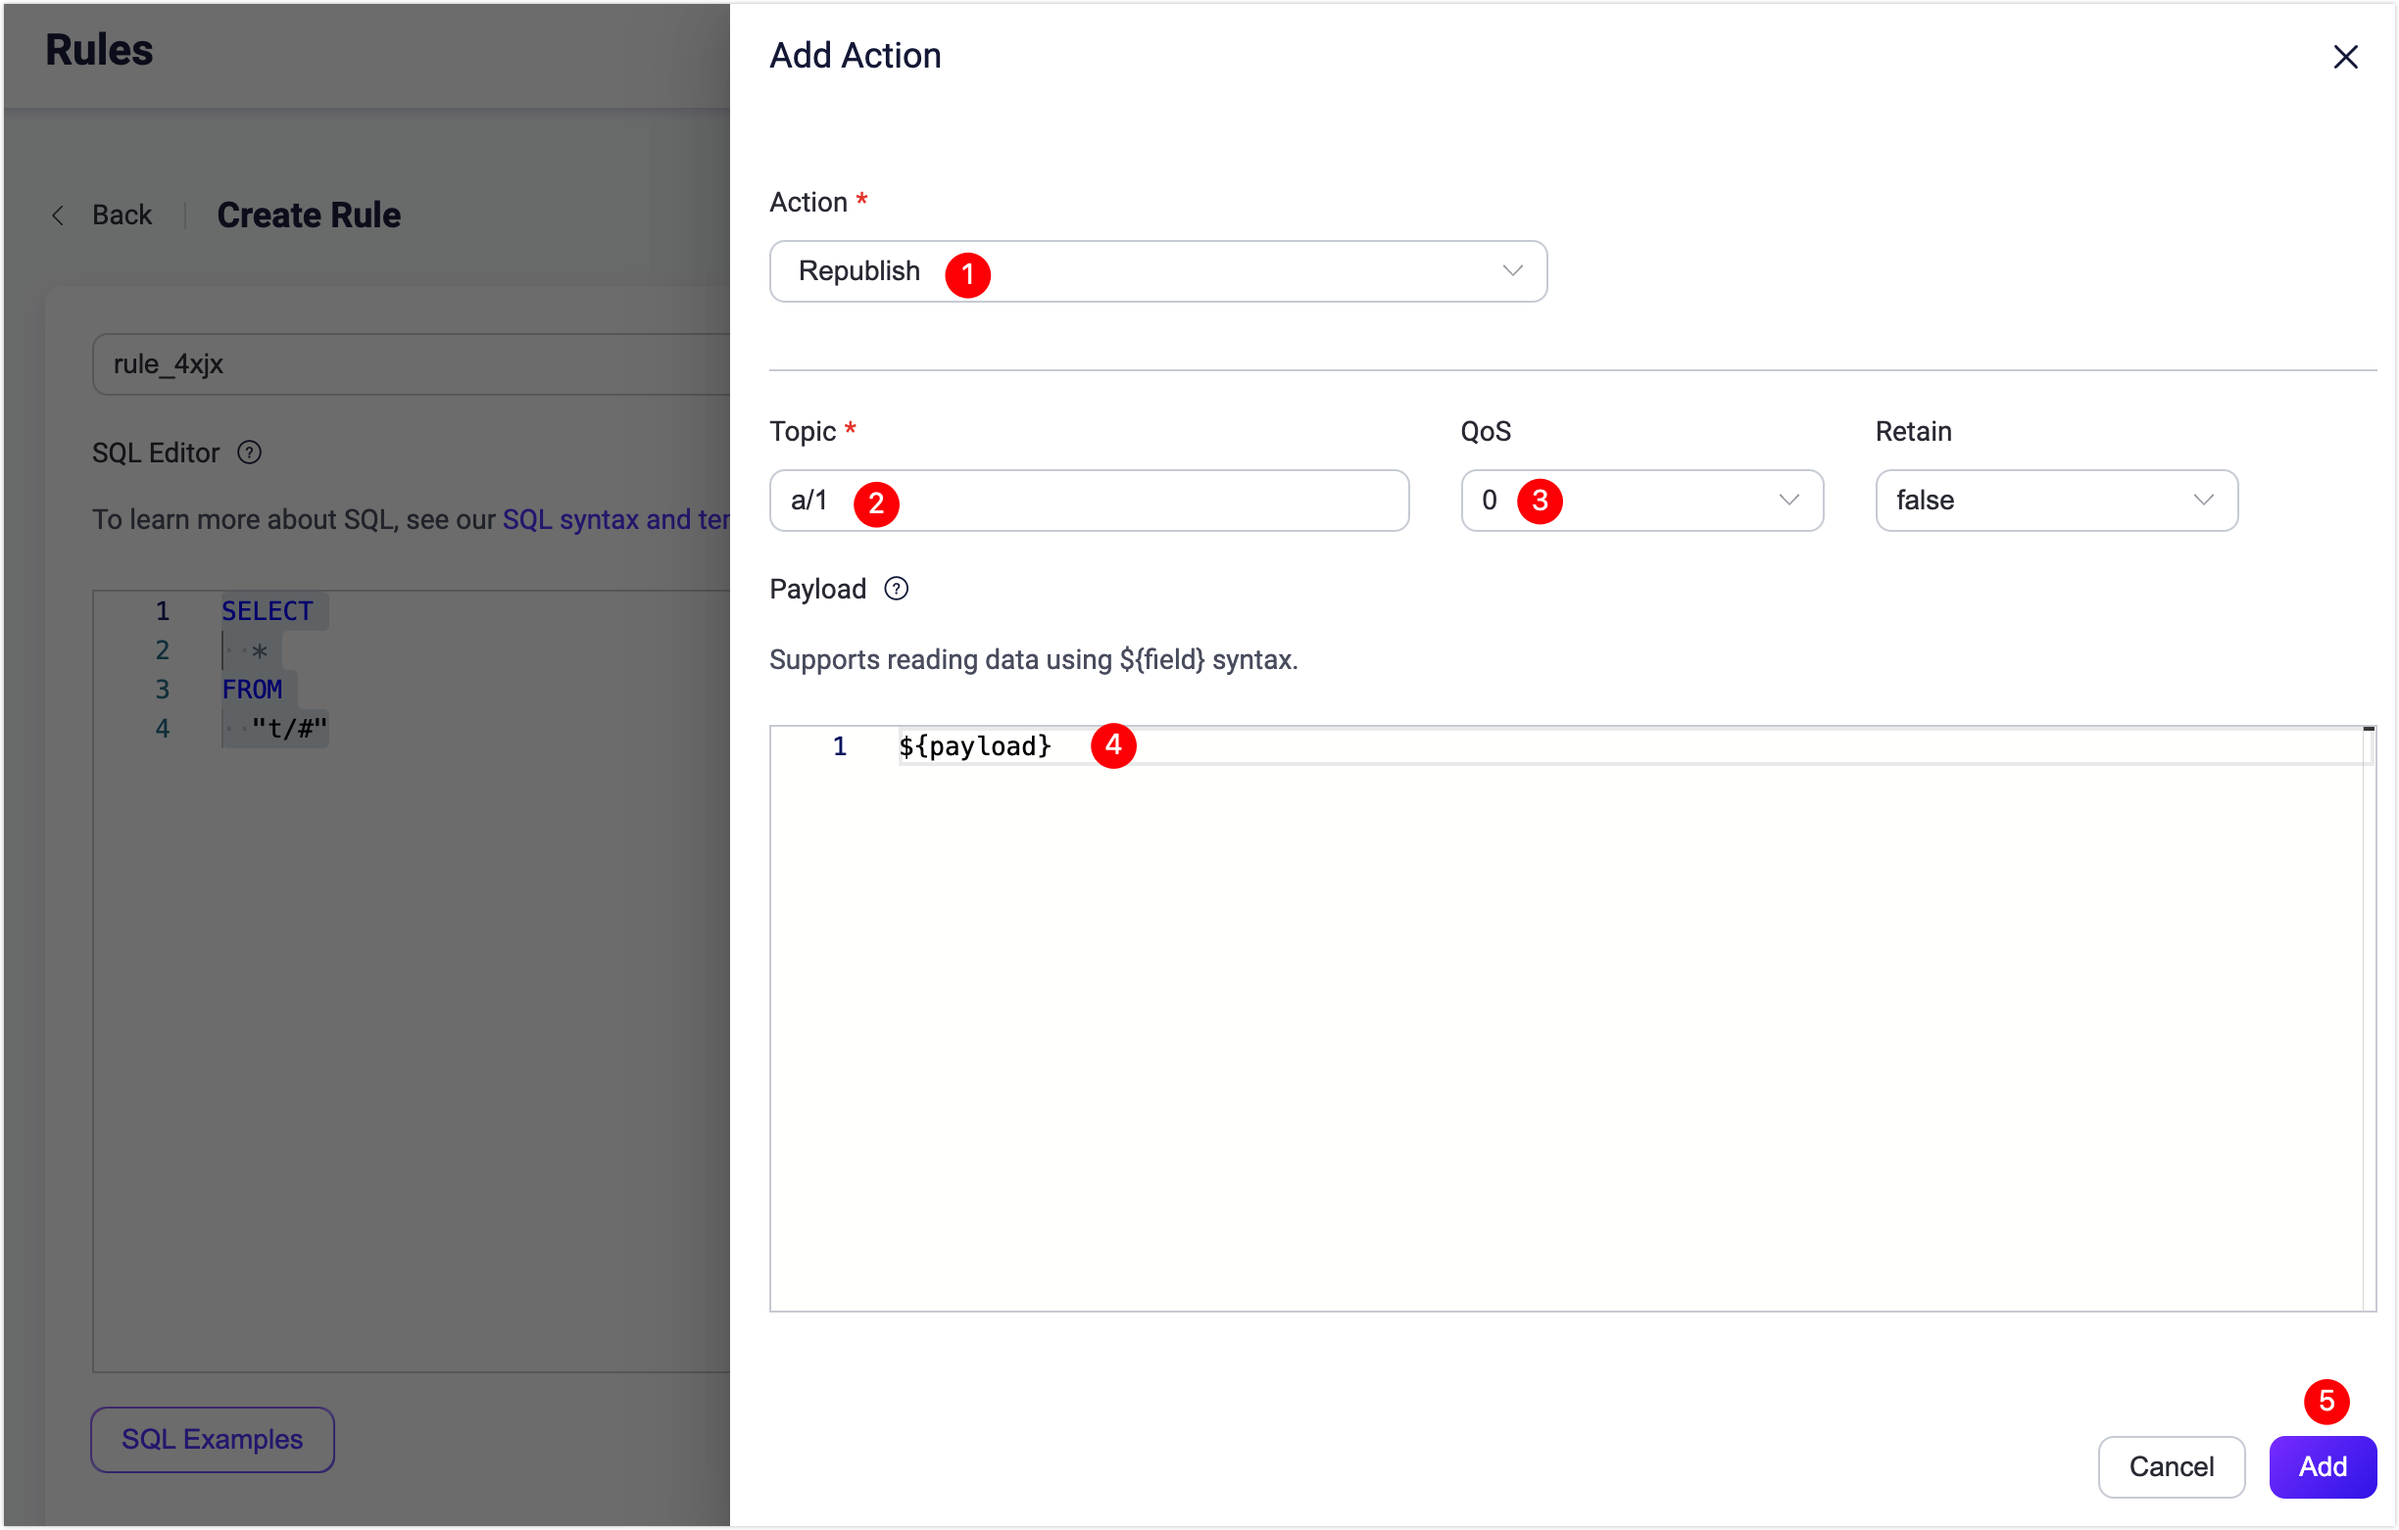
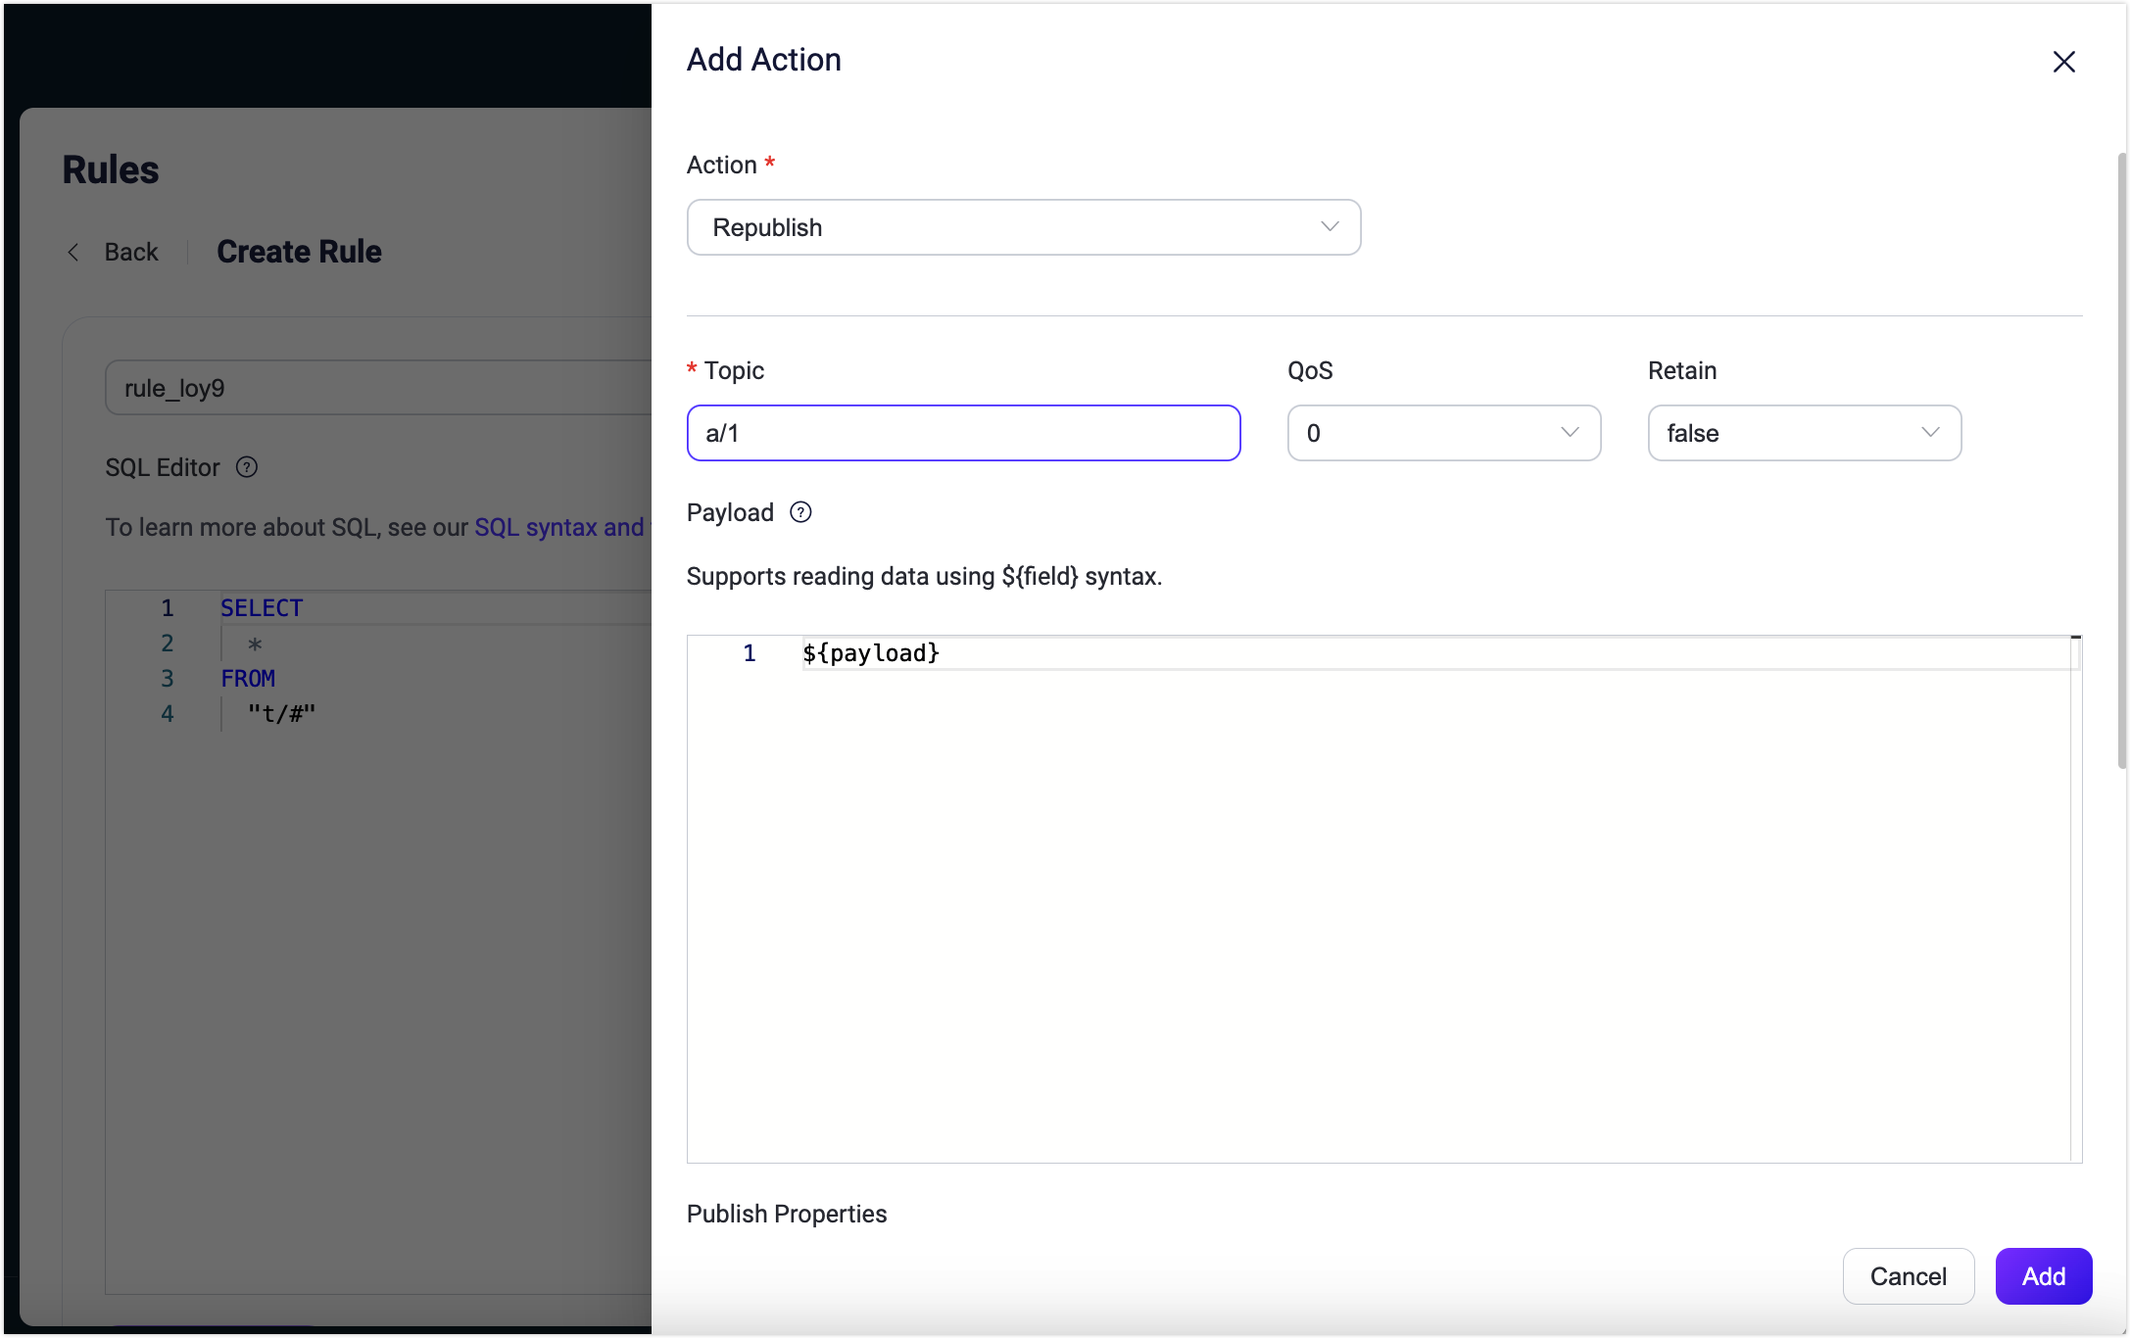
Add Publish Properties in Republish Action

diff --git a/en_US/data-integration/rule-get-started.md b/en_US/data-integration/rule-get-started.md
@@ -1,8 +1,8 @@
 # Create Rules
 
-This guide introduces how to create a rule using the EMQX Dashboard. Log in to the EMQX Dashboard and click **Integration** -> **Rules** in the left navigation menu. Then click the **Create** button, which directs you to the **Rules** page. Here, you can define the data source for your rule and determine the subsequent actions for the filtered messages, such as republishing, printing the result to the Console, or forwarding with data bridges.
+This page mainly introduces how to create a rule for data processing and attach an action to the rule using the EMQX Dashboard. Log in to the EMQX Dashboard and click **Integration** -> **Rules** in the left navigation menu. Then click the **Create** button, which directs you to the **Rules** page. Here, you can define the data source for your rule and determine the subsequent actions for the filtered messages.
 
-The following steps demonstrate how to create a rule that listens to messages with the topic `t/#` and forwards the received messages to the topic `a/1`.
+The demonstration on this page takes the republish action as an example, describing how to create a rule that processes messages received on the topic `t/#` and republishes the message to the topic `a/1`. However, the actions "printing the result to the Console" and "forwarding with data bridges" are also mentioned in [Add Action](#add-action).
 
 ## Define a Data Source
 On the **Rules** page, input a name for your rule and add a note to facilitate future management.
@@ -25,30 +25,63 @@ EMQX has embedded rich SQL statement samples to help you get started, you can cl
 
 This is an optional step, but it is recommended if you are new to EMQX rules. Turn on the **Enable Test** toggle switch to enable the SQL statement testing.
 
-EMQX has provided default values for all fields, such as **Data Source**, **Client ID**, **Username**, **Topic**, **QoS**, and **Payload**, you can just click the **Run Test** button to start the start.  A**Test Passed** prompt will appear if everything is working as expected.
+EMQX has provided default values for all fields, such as **Data Source**, **Client ID**, **Username**, **Topic**, **QoS**, and **Payload**, you can click the **Run Test** button to start the test.  A **Test Passed** prompt will appear if everything is working as expected.
 
 <img src="./assets/rules/test-sql.png" alt="Test the SQL" style="zoom:50%;" />
 
-The processing result of SQL will be presented in the **Output Result** section in the form of JSON. All the fields in SQL processing results can be referenced in the form of `${key}` by the subsequent actions (built-in actions or data bridges). For detailed explanation of the fields, see [SQL Data Sources and Fields](./rule-sql-events-and-fields.md).
+The processing result of SQL will be presented in the **Output Result** section in the form of JSON. All the fields in SQL processing results can be referenced in the form of `${key}` by the subsequent actions (built-in actions or data bridges). For a detailed explanation of the fields, see [SQL Data Sources and Fields](./rule-sql-events-and-fields.md).
 
-## Add Republish Action
+## Add Action
 
-To republish the messages under topic "t/#" to topic "a/1", click the **Add Action** button on the right side of the page. Select **Republish** from the drop-down menu under **Action**, and configure the following settings before clicking the **Add** button to confirm:
+On the **Create Rule** page, click the **Add Action** button on the right side to show the **Add Action** page. You can select either of the three types of actions from the **Action** drop-down list: `Republish`, `Console Output` and `Forwarding with Data Bridge`.
+
+### Add Republish Action
+
+This section demonstrates how to add an action to republish the original messages received from the topic `t/#` to another topic `a/1`. 
+
+Select **Republish** from the drop-down menu under **Action**, and configure the following settings before clicking the **Add** button to confirm:
 
 - **Topic**: Set the target topic, "a/1" in this example;
+
 - **QoS**: Set the QoS of the republished message, "0" in this example;
+
 - **Retain**: Set whether to forward this message as a retained message, for this tutorial, keep the default setting, **false**;
+
 - **Payload**: Input "${payload}", indicating the republished message will have the same payload as the original message, without any modifications.
 
-<img src="./assets/rules/action-republish.png" alt="Republish" style="zoom:50%;" />
+- **Publish Properties**: Click the toggle switch to configure the user properties and MQTT properties as necessary. The properties options allow you to add rich message metadata descriptions for the republished message.
 
-On the **Rules** page, click the **Create** button at the bottom to complete the rule creation. This rule will be added to as a new entry in the **Rules** page. You can view the rule ID, data source, enable or disable the rule, and creation time. You can also click **Settings** to modify the data source or add more action, or click the **More** button to duplicate or delete the rule.
+  - **User Properties**: You can add custom key-value pairs to configure the [user properties](https://www.emqx.com/en/blog/mqtt5-user-properties) of the republished message, which represent custom message metadata.
+
+  - **Payload Format Indicator**: Enter a value to indicate whether the payload of the message is in a specific format (e.g., UTF-8 text) or not. Optional values are:
+
+    - 0 (0x00): The payload is not specified to have a specific format.
+    - 1 (0x01): The payload is UTF-8 encoded character data.
+
+  - **Message Expiry Interval**: Enter a value (in seconds) to specify a time interval after which the message should expire and be considered invalid if it hasn't been delivered to the intended recipient.
+
+  - **Content Type**: Enter a value to specify the type or format of the payload content within the republished message, for example, "..." <!-- what should be entered?-->
+
+  - **Response Topic**: Enter the specific MQTT topic to which you want the response message to be published. For example, if you want responses to be sent to a topic named "response/my_device," you would enter: `response/my_device`.
+
+  - **Correlation Data**: Enter a unique identifier or data to correlate a response message with the original request message.
+
+    ::: tip
+
+    You can enter any relevant data or identifier that helps you associate the republished message with the original request. For example, you could enter a unique request identifier, a transaction ID, or any other information that is meaningful in your application context.
+
+    :::
+
+
+<img src="./assets/rules/action-republish.png" alt="action-republish" style="zoom:50%;" />
+
+On the **Create Rules** page, click the **Create** button at the bottom to complete the rule creation. This rule will be added to as a new entry in the **Rules** page. You can view the rule ID, data source, enable or disable the rule, and creation time. You can also click **Settings** to modify the data source or add more action, or click the **More** button to duplicate or delete the rule.
 
 ::: tip
 The republishing action does not prevent the delivery of the original message. For example, according to the rule, messages under topic "t/1" will be republished under topic "a/1", in the meantime "t/1" message will still be delivered to the clients subscribed to topic  "t/1".
 :::
 
-**Add Console Output Action**
+### Add Console Output Action
 
 In addition to the republishing action, you can choose to print the output of the rule to the console for debugging purposes.
 
@@ -75,7 +108,7 @@ Where
 The console output action should only be used for debugging. If it is used in the production environment, it may cause performance problems.
 :::
 
-**Forward with Data Bridge**
+### Add Forwarding with Data Bridge Action
 
 You can also add actions to forward the processed results with data bridges. All you need is to select the target Data bridge from the Data bridge drop-down list. For details on creating data bridges in EMQX, see [the documentation for Data Bridges](./data-bridges.md).
 
